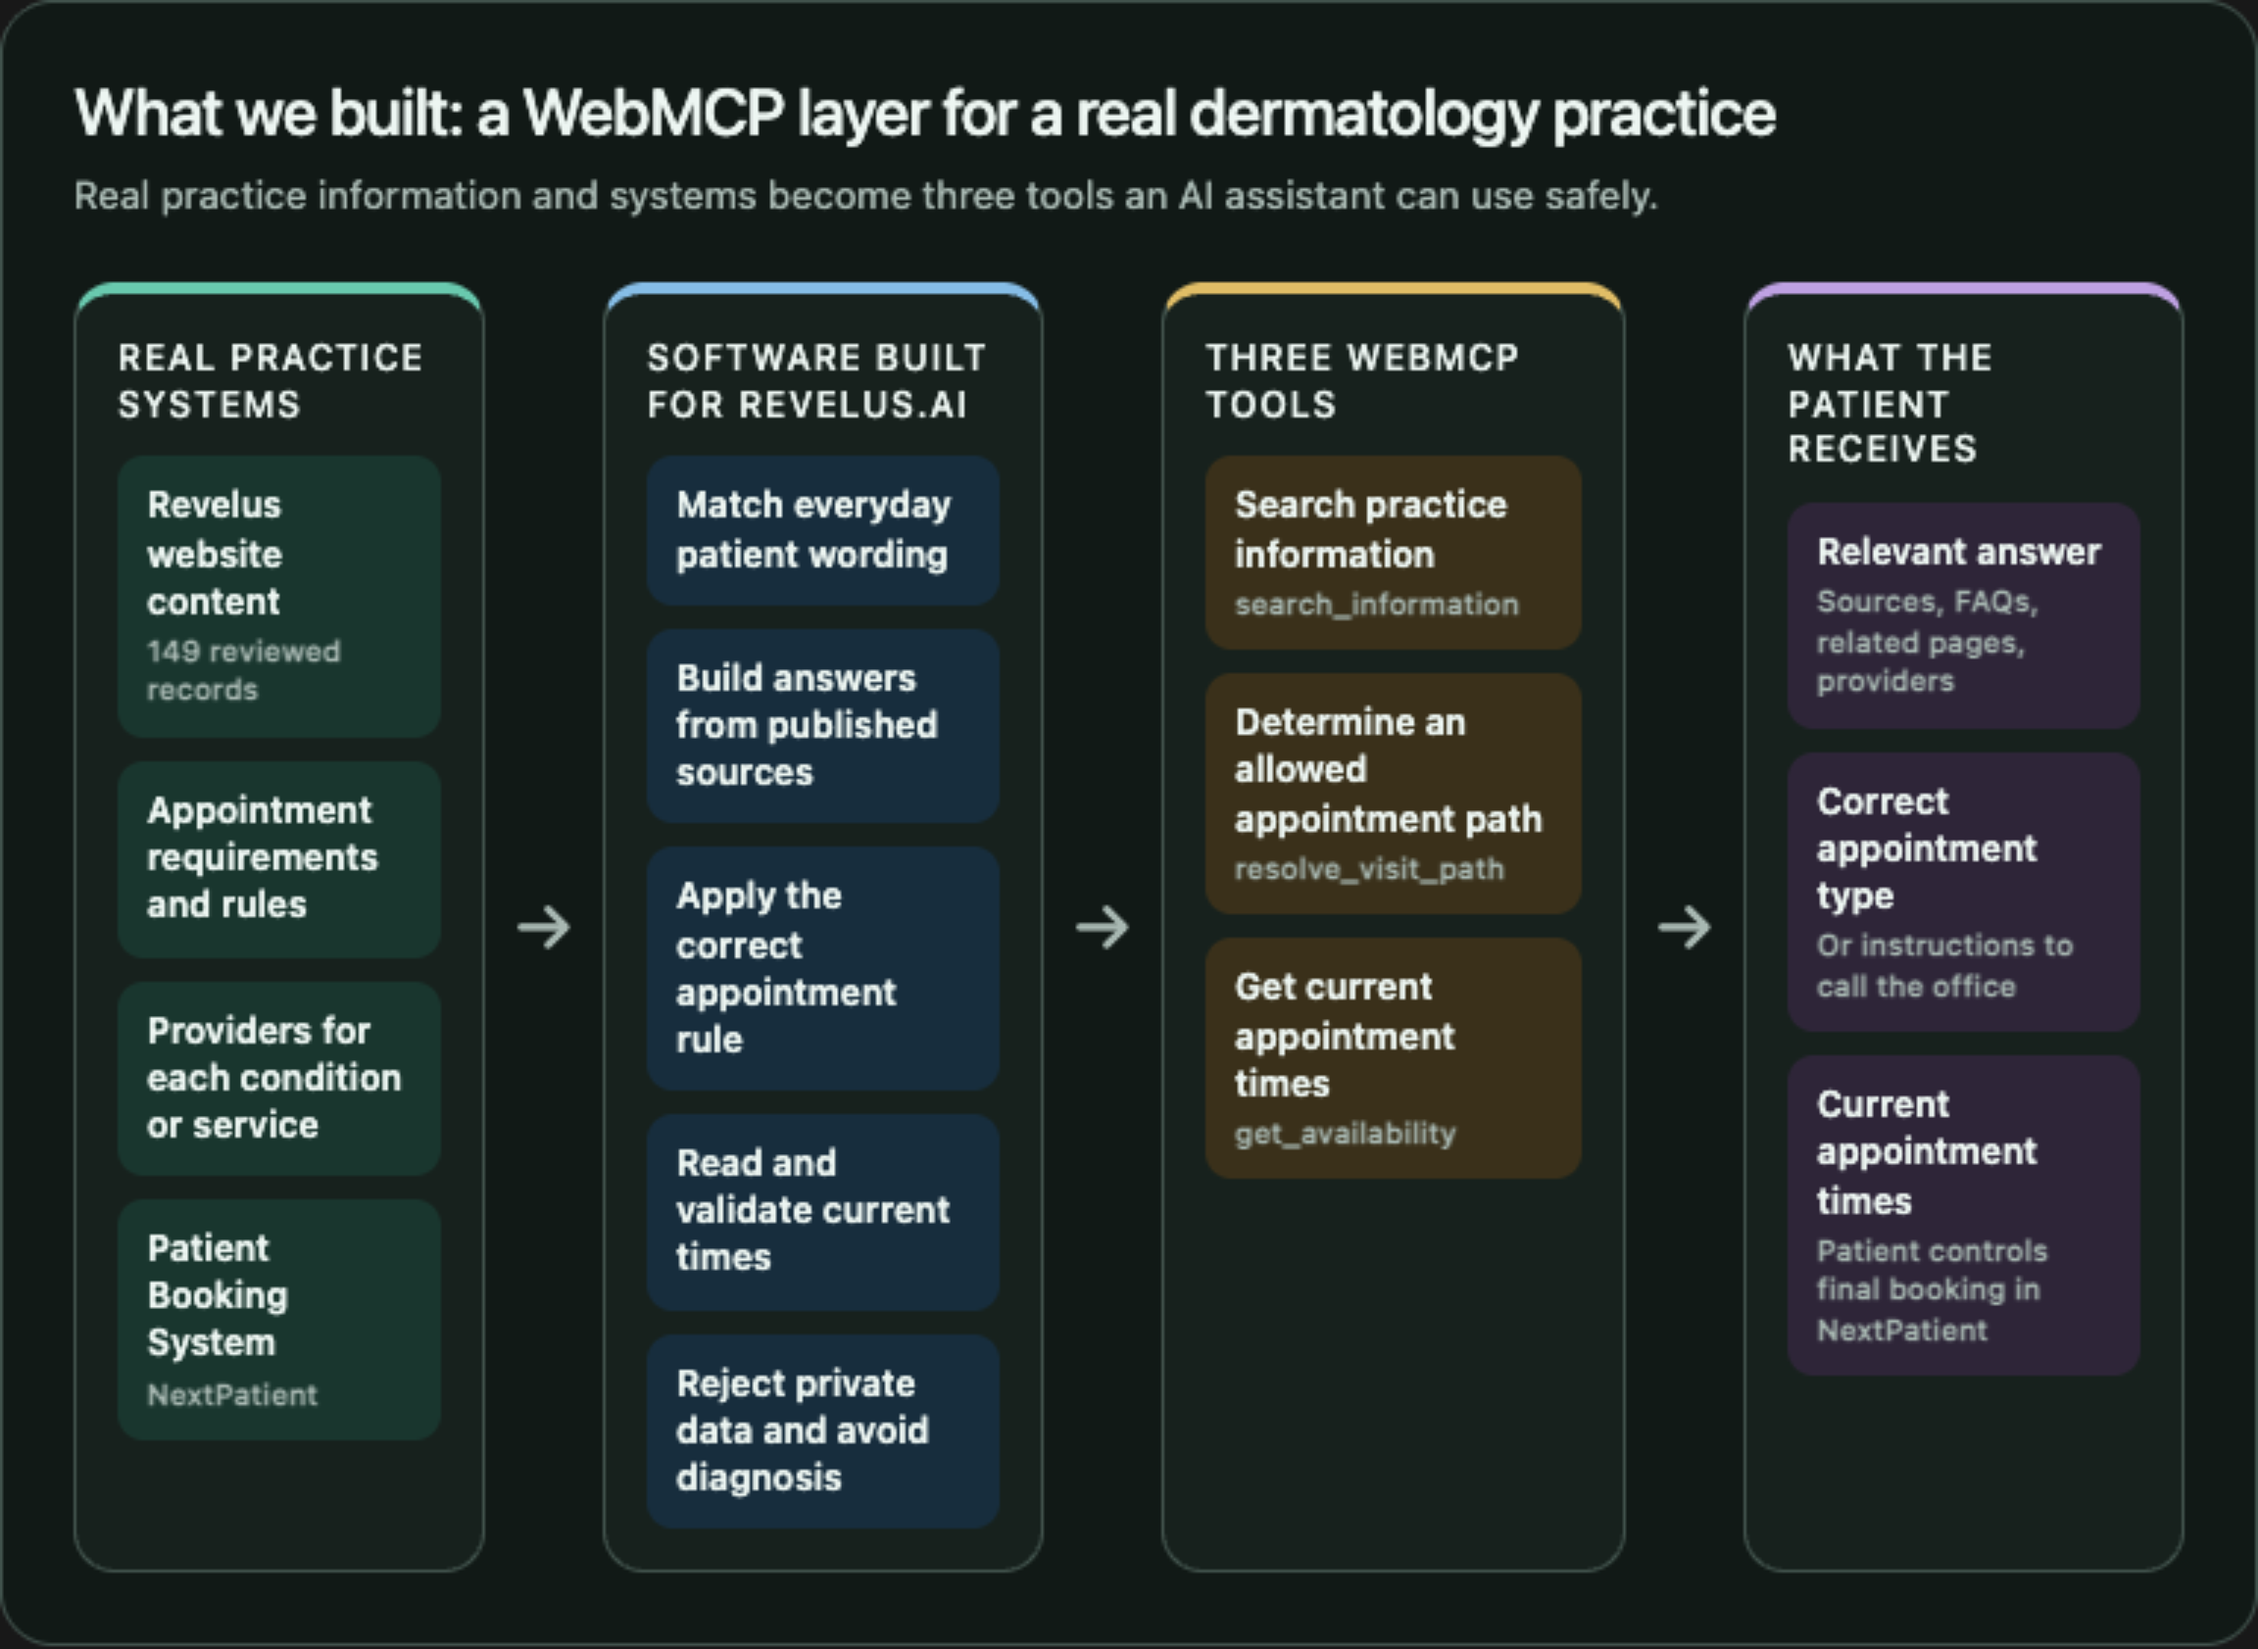
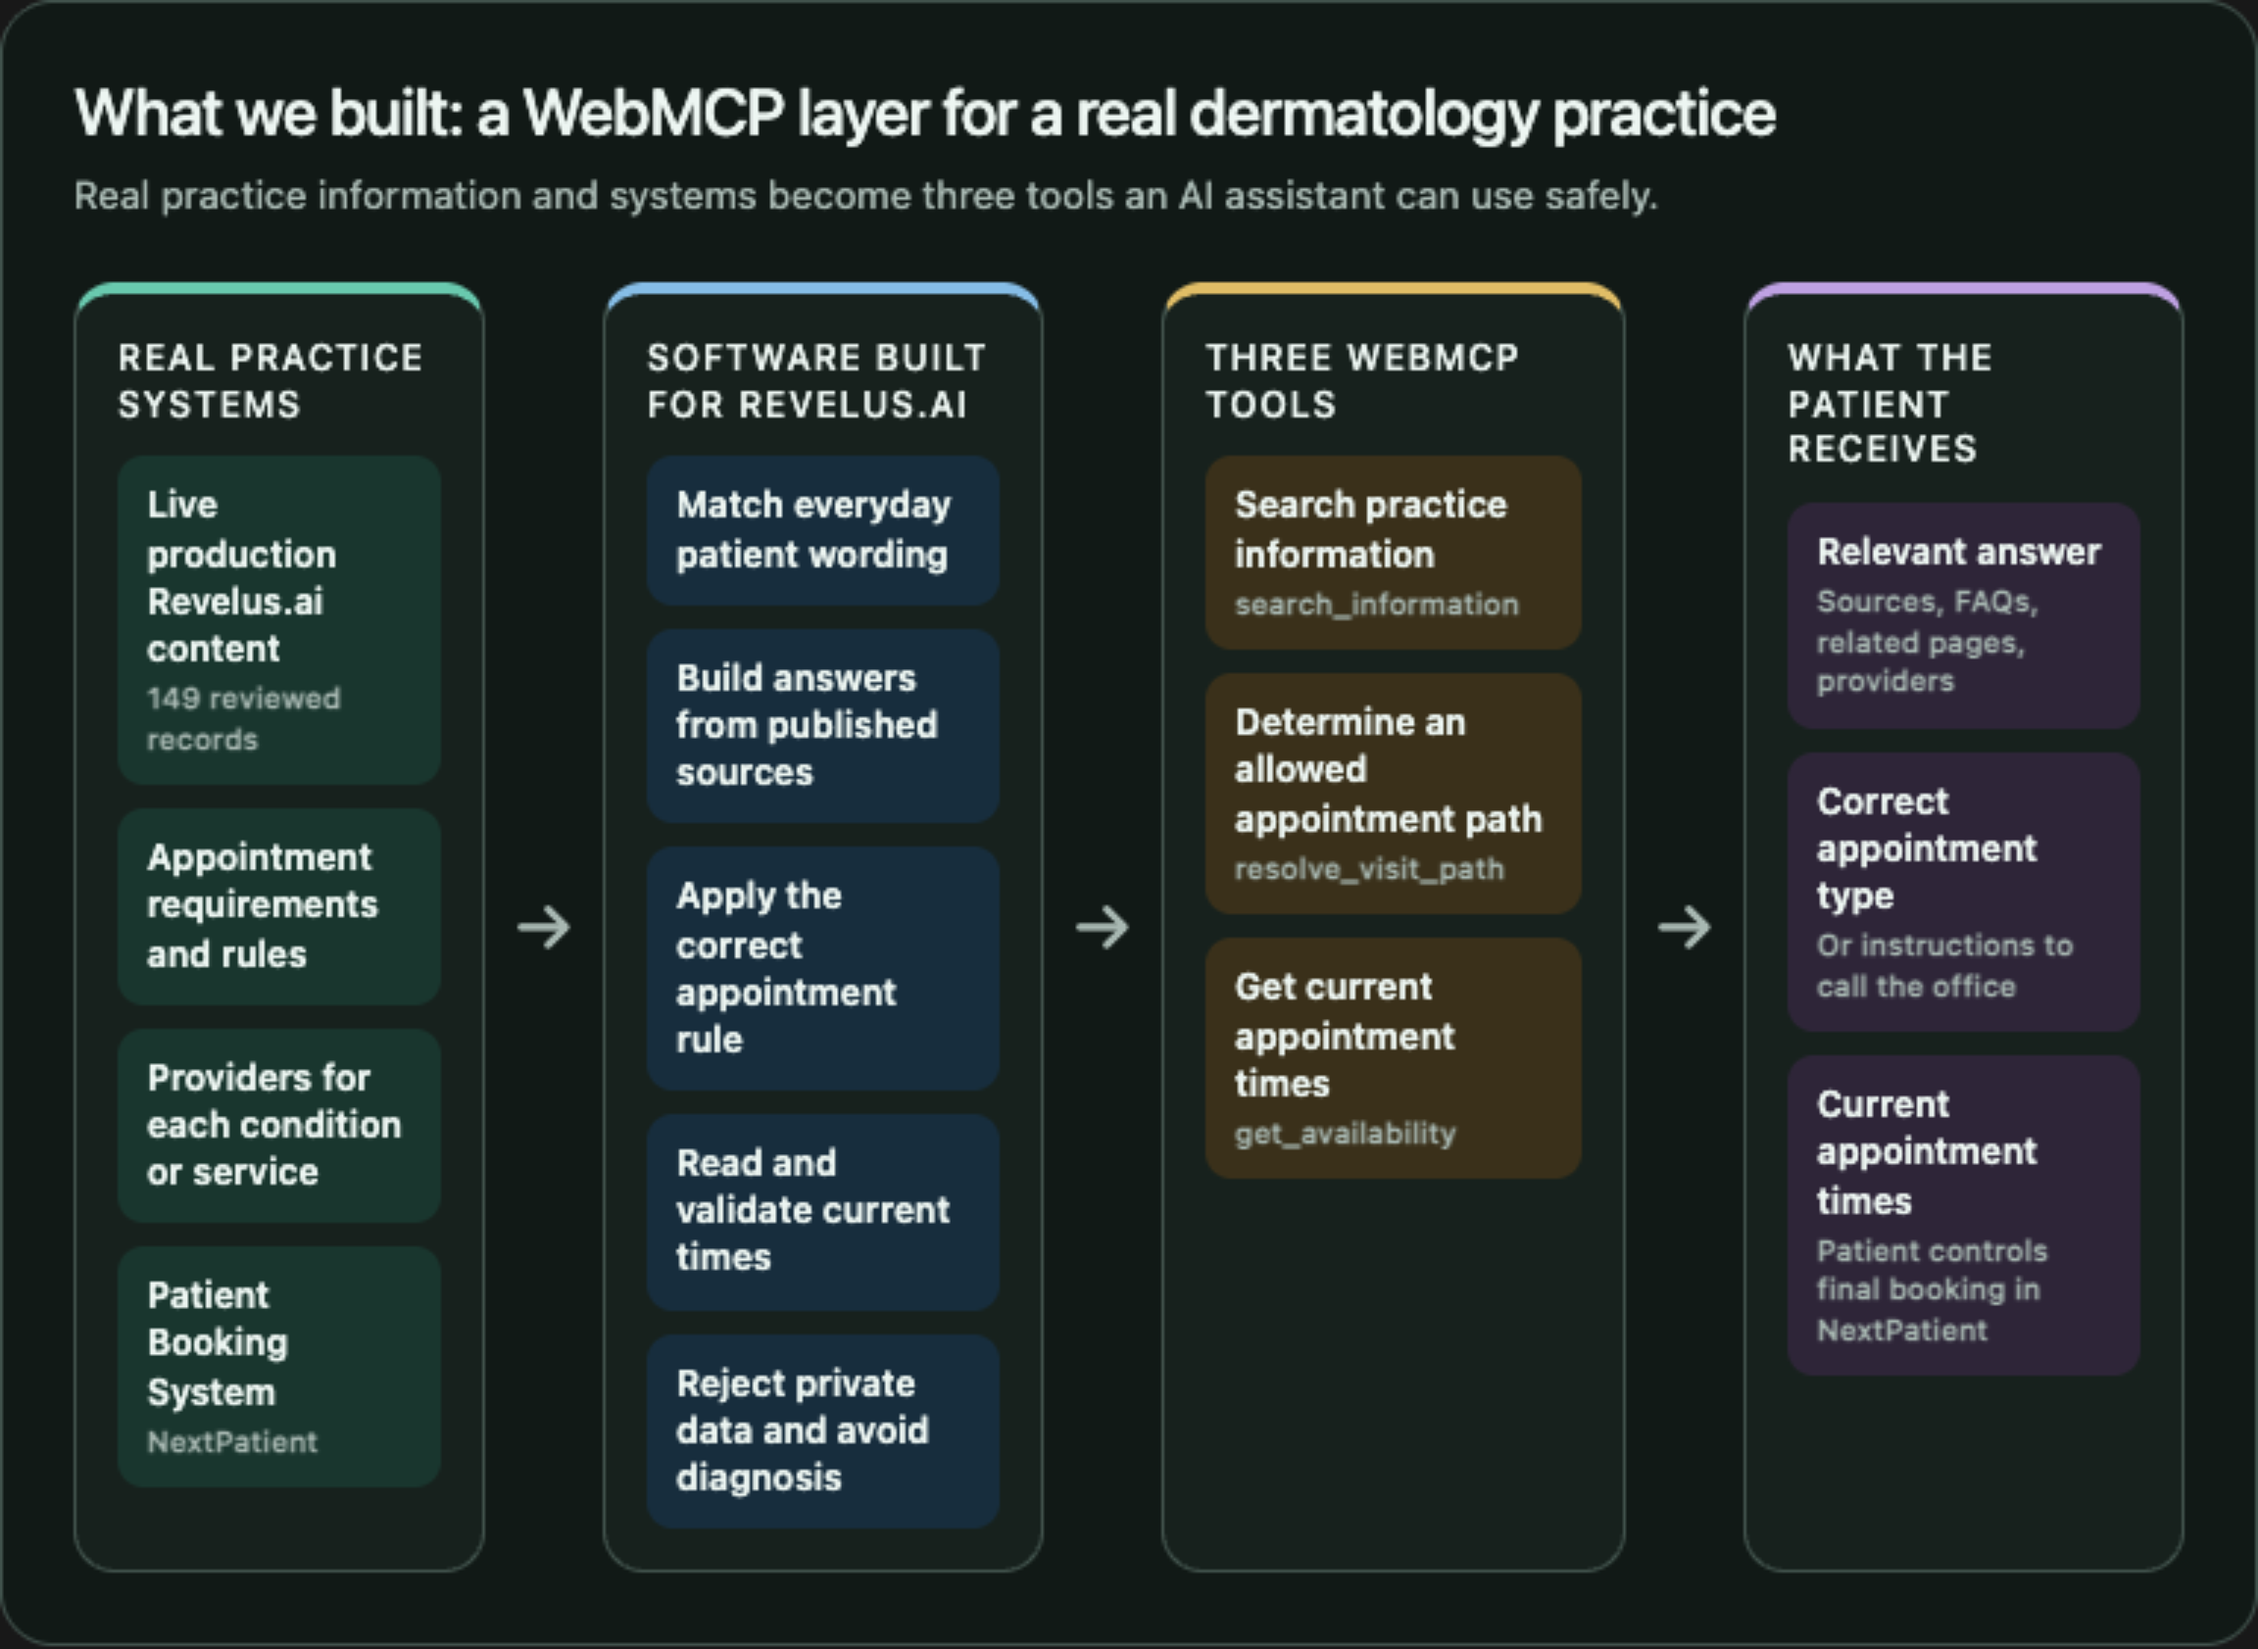
docs: reconcile demo diagrams with implementation

Changed region(s): [[0.0625, 0.2781, 0.1875, 0.587], [0.0625, 0.6179, 0.1875, 0.896]]

diff --git a/README.md b/README.md
@@ -248,10 +248,13 @@ are defined in
 | `revelus.get_availability` | Read current provider/time information for a resolved path. | `pathId` returned by the resolver | Read-only; returns review links and never holds or books a time. |
 
 Search returns the complete page card, including its answer evidence and
-`responseGuidance`, so an agent does not need a second round trip. The page and
-HTTP compatibility layer retain an internal answer action for opening card
-sections, but `revelus.get_answer` is intentionally not registered as a native
-WebMCP tool.
+`responseGuidance`, so an agent does not need a second round trip. The shared
+action contract still contains `revelus.get_answer`, and the page and HTTP
+compatibility layer retain it for opening card sections. It is deliberately
+excluded from native `document.modelContext` registration and is not used in
+the current three-tool demo because it became redundant once search began
+returning the complete card. The retained action will be re-reviewed later;
+until then, it must not be counted or described as a fourth native WebMCP tool.
 
 The search description explicitly instructs clients to use short,
 de-identified topic language. The visit resolver rejects extra properties and
@@ -279,6 +282,11 @@ standard browser.
 ## Architecture
 
 ![What we built: a WebMCP layer connecting reviewed practice information and scheduling rules to safe, patient-facing tools](assets/readme/what-we-built-webmcp.png)
+
+*This visual describes the live production Revelus.ai deployment, including
+its 149-record private corpus. The public repository uses seven synthetic
+records, ten supported demo queries, and six patient-language concepts while
+preserving the same three-tool architecture and safety boundaries.*
 
 *The challenge work turns existing, authorized practice systems into three
 page-local WebMCP tools with source-backed answers, validated visit paths, and
@@ -381,10 +389,13 @@ data that should not become part of Git history.
 
 ## Testing and verification
 
-![How automated build-time testing protects care quality and patient safety](assets/readme/safety-quality-testing.png)
+![How pre-deployment testing protects care quality and patient safety](assets/readme/safety-quality-testing.png)
 
-*Every production build checks answer quality and enforces the clinical,
-privacy, and human-control boundaries the product must not cross.*
+*This visual reports the live production release gate: 149 curated records,
+400 patient-query cases, 226 provider-relationship cases, and 240
+patient-language cases. The public fixture is intentionally smaller. Production
+maintainers run the gate before review or deployment; Netlify's build command
+creates the public bundle but does not itself run the complete test suite.*
 
 The standard pre-submission check is:
 
